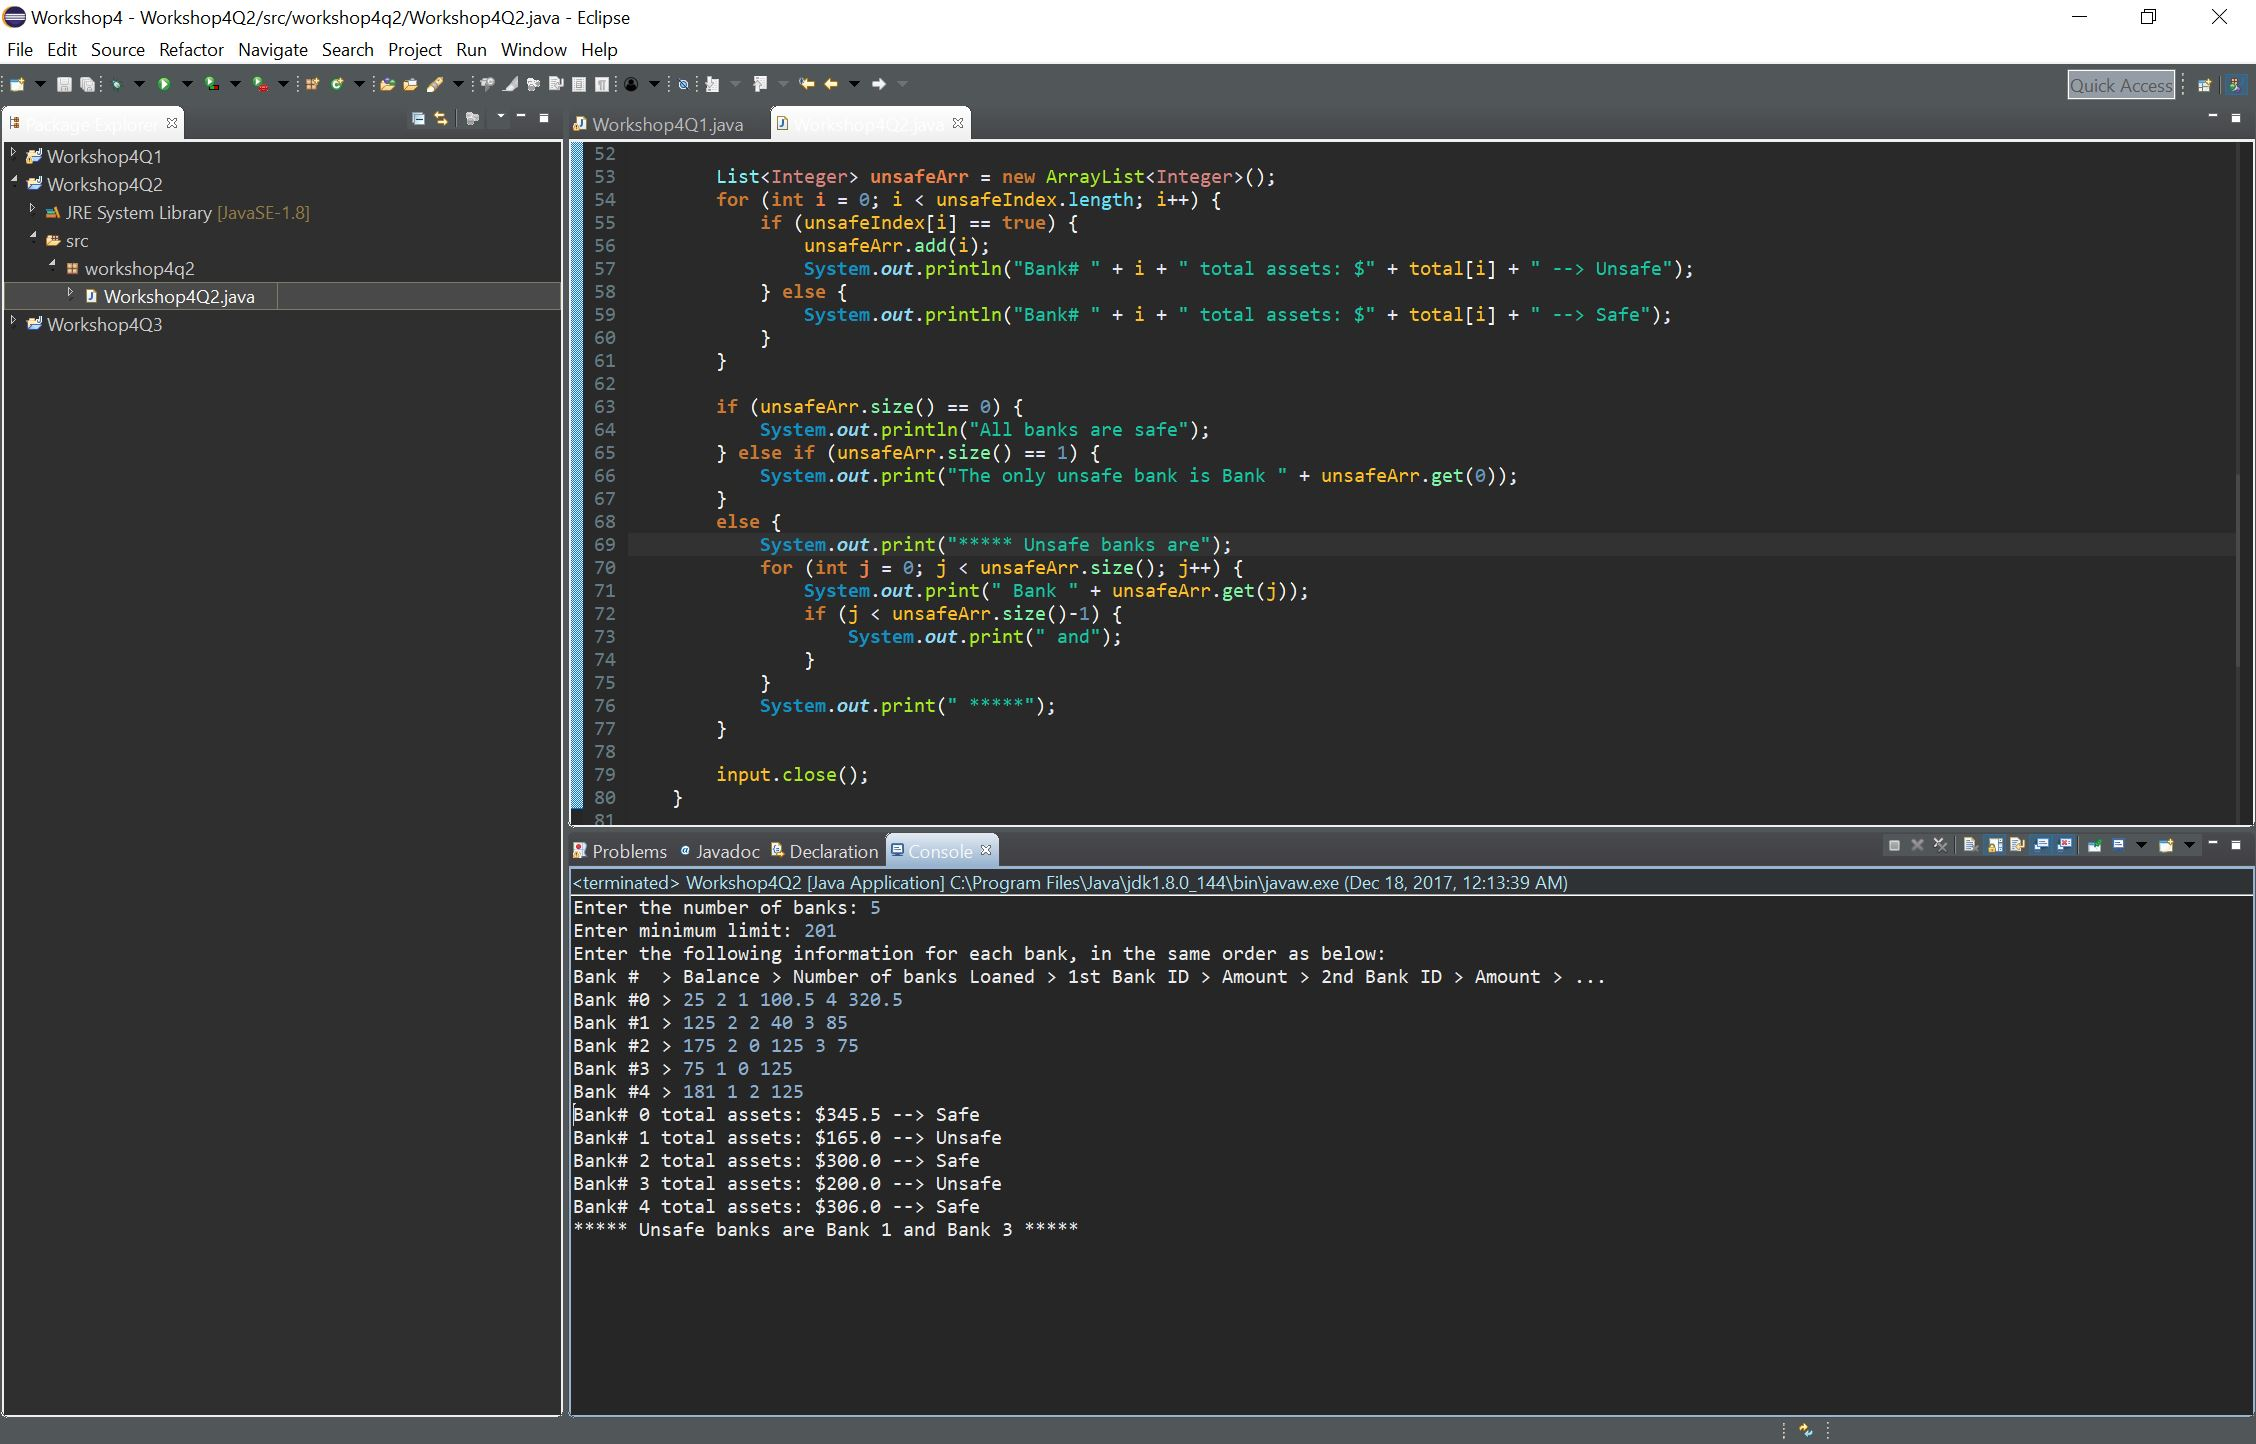
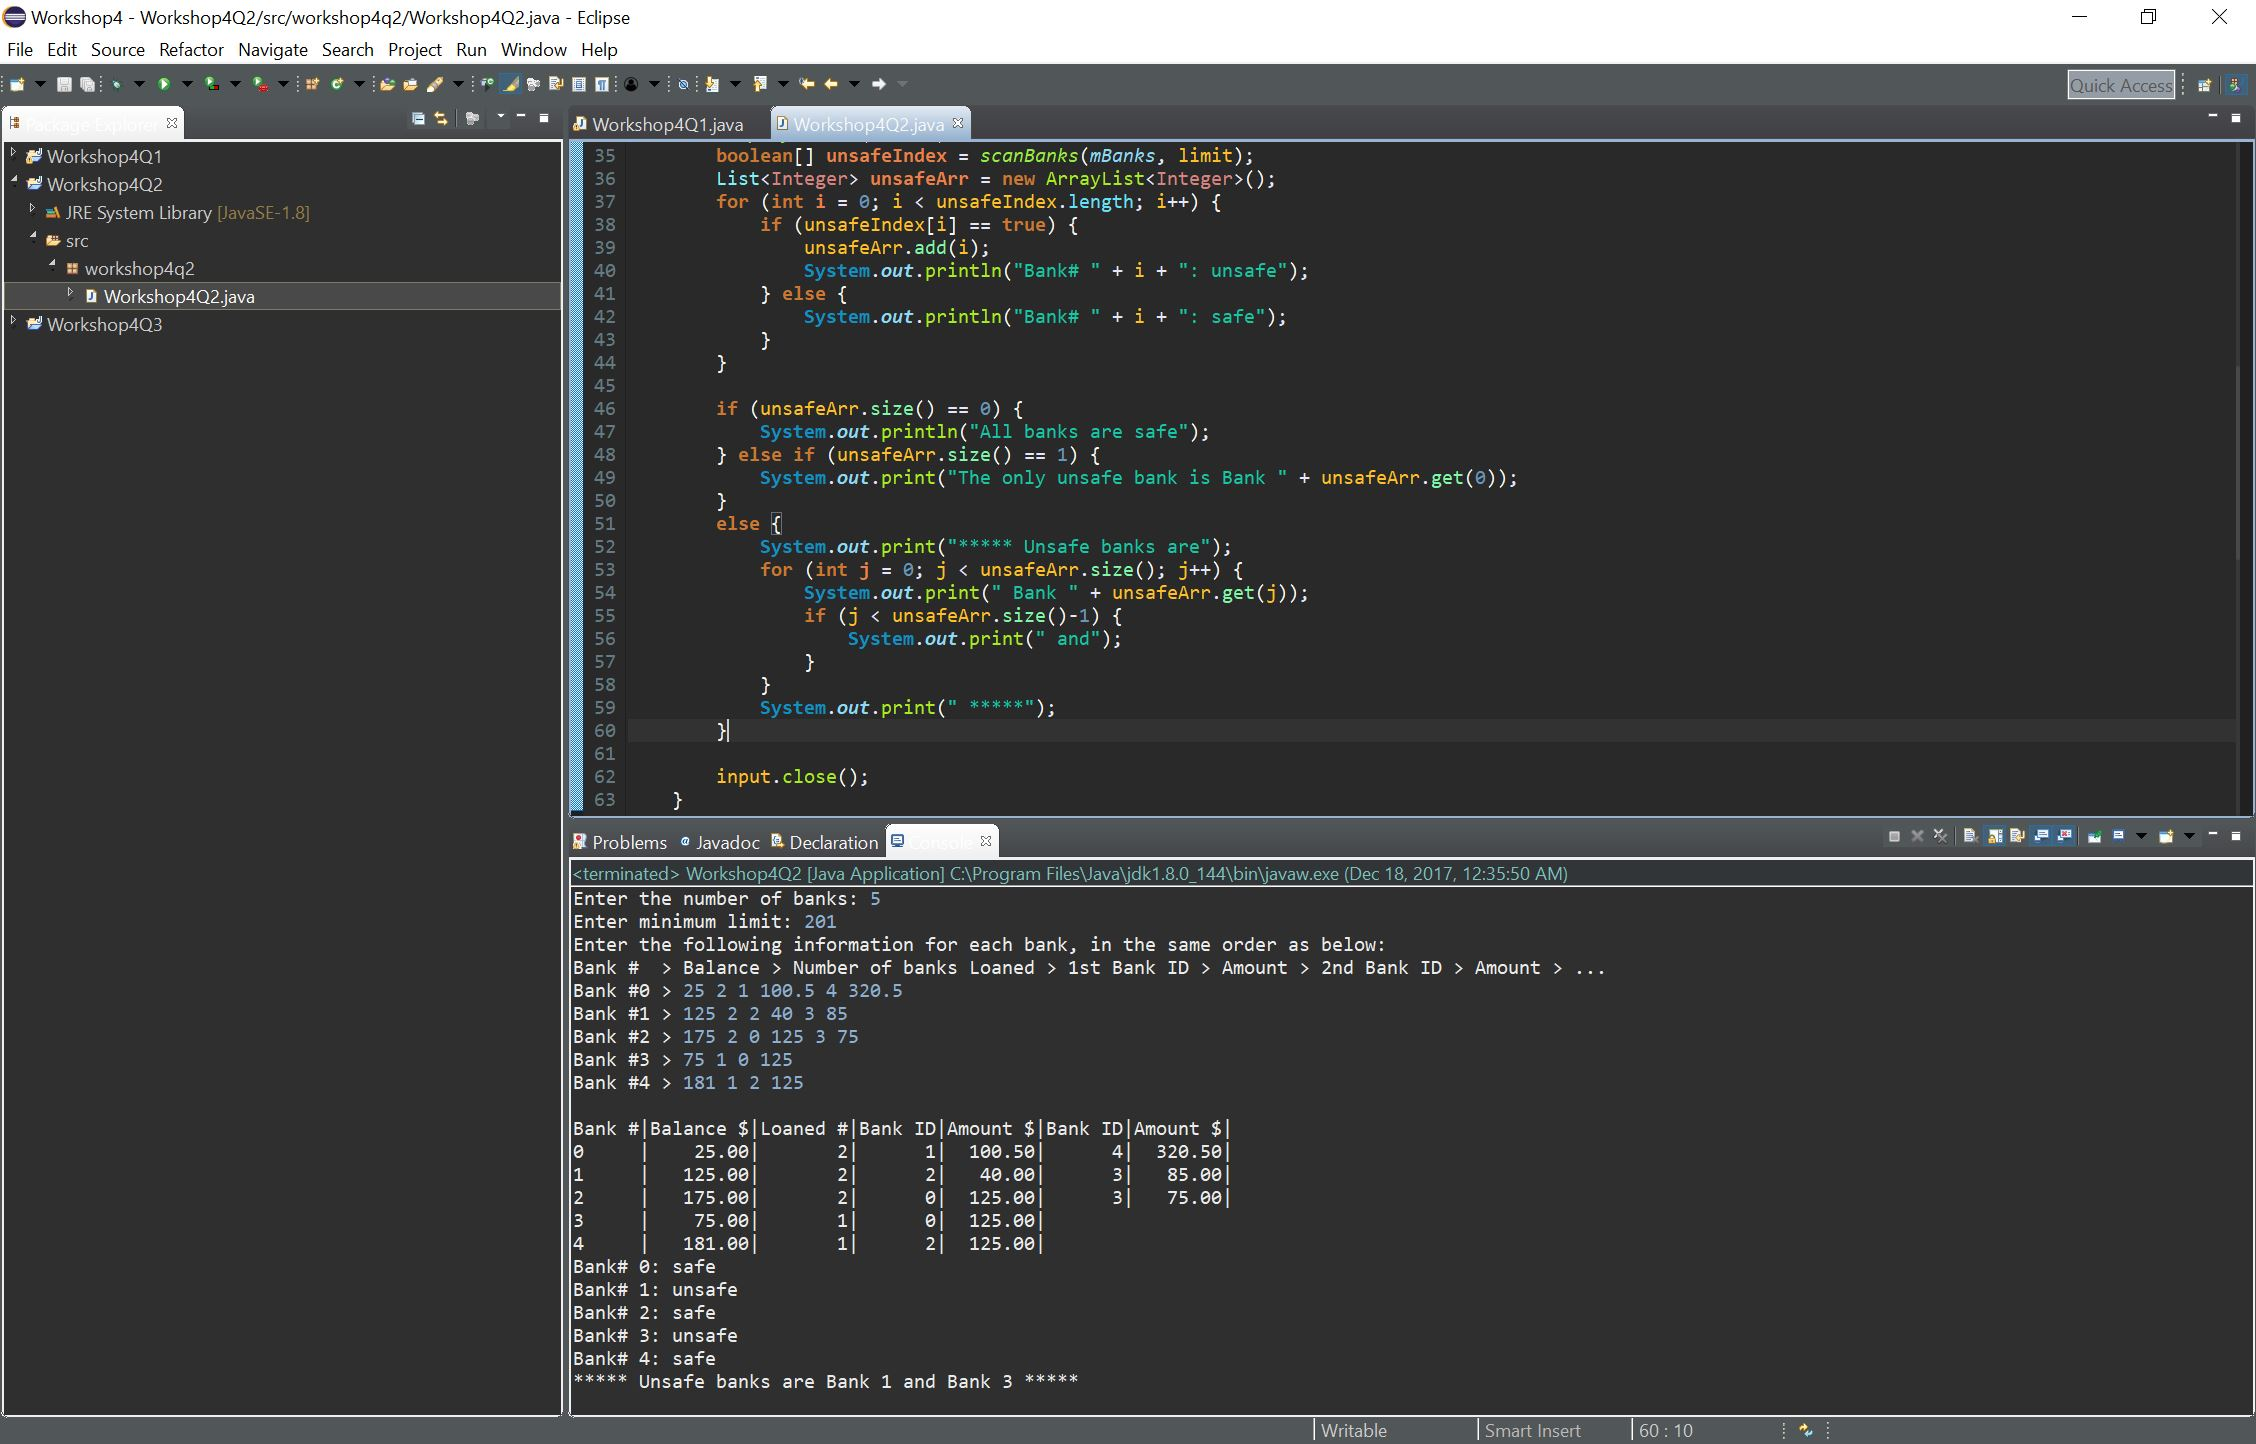
Add files via upload

diff --git a/Workshop4/Workshop4Q2/Workshop4Q2.java b/Workshop4/Workshop4Q2/Workshop4Q2.java
@@ -30,33 +30,16 @@ public class Workshop4Q2 {
                 mBanks[i][bank][loan] = input.nextDouble();
             }
         }
-
-        boolean[] unsafeIndex = new boolean[mBanks.length];
-        double [] total = new double[5];
-        boolean isSafe = false;
-        while (!isSafe) {
-            isSafe = true;
-            for (int banks = 0; banks < mBanks.length; banks++) {
-                total[banks] = mBanks[banks][0][0];
-                for (int LoanedBanks = 1; LoanedBanks < mBanks[banks].length; LoanedBanks++) {
-                    int index = (int)mBanks[banks][LoanedBanks][bankID];
-                    if (!unsafeIndex[index])
-                    	total[banks] += mBanks[banks][LoanedBanks][loan];
-                }
-                if (total[banks] < limit && !unsafeIndex[banks]) {
-                	unsafeIndex[banks] = true;
-                    isSafe = false;
-                }
-            }
-        }
-        
+        System.out.println("");
+        displayMatrix(mBanks);
+        boolean[] unsafeIndex = scanBanks(mBanks, limit);
         List<Integer> unsafeArr = new ArrayList<Integer>();
         for (int i = 0; i < unsafeIndex.length; i++) {
         	if (unsafeIndex[i] == true) {
         		unsafeArr.add(i);
-        		System.out.println("Bank# " + i + " total assets: $" + total[i] + " --> Unsafe");
+        		System.out.println("Bank# " + i + ": unsafe");
         	} else {
-        		System.out.println("Bank# " + i + " total assets: $" + total[i] + " --> Safe");
+        		System.out.println("Bank# " + i + ": safe");
         	}
         }
         
@@ -77,5 +60,42 @@ public class Workshop4Q2 {
         }
         
         input.close();
+    }
+
+    public static boolean[] scanBanks(double[][][] m, int limit) {
+
+        boolean[] indexUnsafeBanks = new boolean[m.length];
+        double total;
+        boolean isSafe = false;
+        while (!isSafe) {
+            isSafe = true;
+            for (int banks = 0; banks < m.length; banks++) {
+                total = m[banks][0][0];
+                for (int LoanedBanks = 1; LoanedBanks < m[banks].length; LoanedBanks++) {
+                    int index = (int)m[banks][LoanedBanks][bankID];
+                    if (!indexUnsafeBanks[index])
+                        total += m[banks][LoanedBanks][loan];
+                }
+                if (total < limit && !indexUnsafeBanks[banks]) {
+                    indexUnsafeBanks[banks] = true;
+                    isSafe = false;
+                }
+            }
+        }
+        return indexUnsafeBanks;
+    }
+
+    public static void displayMatrix(double[][][] m) {
+
+        System.out.printf("%-5s%-5s%-5s%-5s%-5s%-5s%-5s\n",
+                "Bank #|", "Balance $|", "Loaned #|", "Bank ID|", "Amount $|", "Bank ID|", "Amount $|");
+        for (int banks = 0; banks < m.length; banks++) {
+            System.out.printf("%-6d|%9.2f|%8d|", banks, m[banks][0][0], m[banks].length -1);
+
+            for (int LoanedBanks = 1; LoanedBanks < m[banks].length; LoanedBanks++) {
+                System.out.printf("%7.0f|%8.2f|", m[banks][LoanedBanks][bankID], m[banks][LoanedBanks][loan]);
+            }
+            System.out.println("");
+        }
     }
 }
